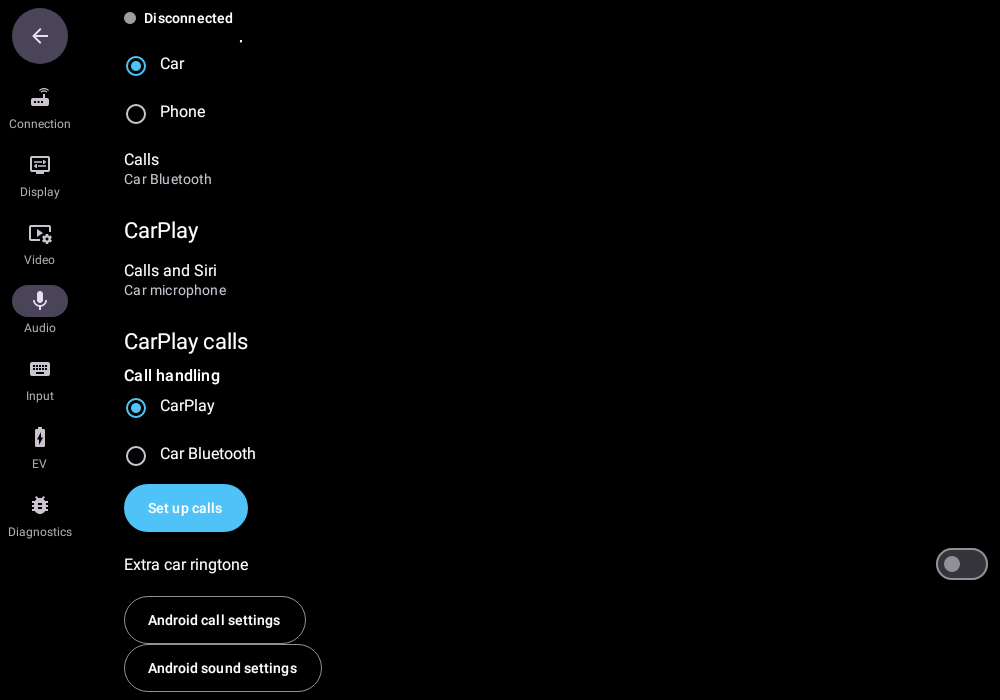
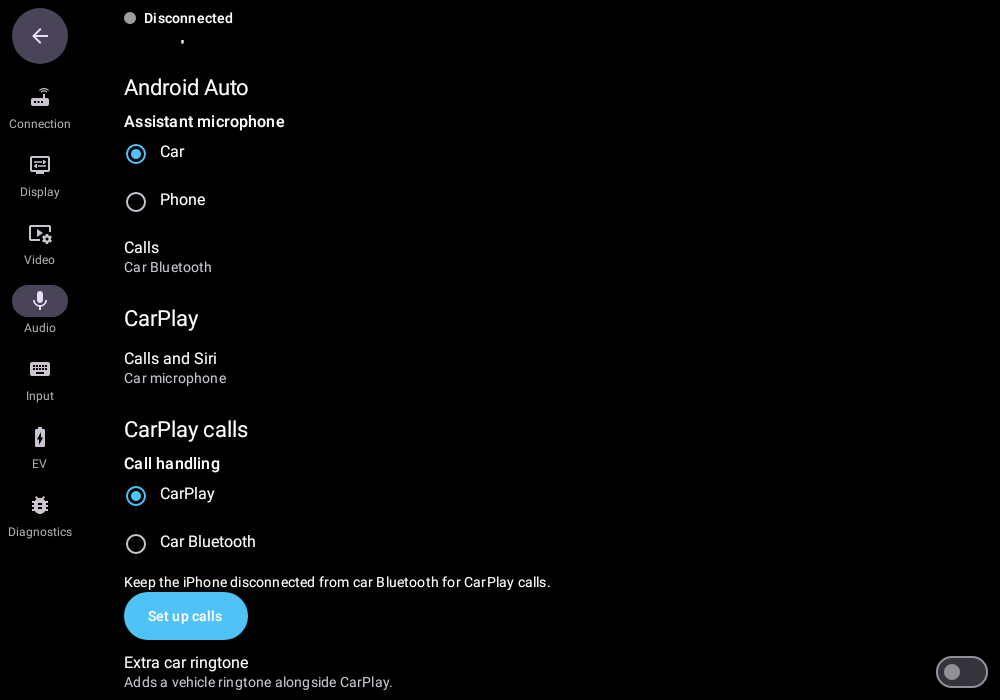
Explain extra car ringtone and refresh actual Audio setup renders

diff --git a/app/src/test/java/com/openautolink/app/ui/settings/CarPlayCallSettingsTest.kt b/app/src/test/java/com/openautolink/app/ui/settings/CarPlayCallSettingsTest.kt
@@ -78,6 +78,25 @@ class CarPlayCallSettingsTest {
         compose.onNodeWithTag("extraCarRingtone").assertDoesNotExist()
     }
 
+    @Test fun extraRingtoneExplainsOptionalVehicleRingOnlyForCarPlay() {
+        var state by mutableStateOf(CarPlayCallUiState(preferencesLoaded = true,
+            setup = CarPlayCallSetup.SETUP_REQUIRED))
+        val events = mutableListOf<String>()
+        compose.setContent { MaterialTheme { Column(Modifier.verticalScroll(rememberScrollState())) {
+            CarPlayCallSettings(bindings(state, events))
+        } } }
+        compose.onNodeWithTag("extraCarRingtoneHelper").performScrollTo()
+            .assertIsDisplayed().assertTextEquals("Adds a vehicle ringtone alongside CarPlay.")
+        compose.onNodeWithTag("extraCarRingtone").assertIsOff()
+        compose.runOnIdle {
+            assertTrue("Reading guidance must not change intent", events.isEmpty())
+            state = state.copy(handler = CarPlayCallHandler.CAR_BLUETOOTH)
+        }
+        compose.onNodeWithTag("extraCarRingtoneHelper").assertDoesNotExist()
+        compose.onNodeWithTag("extraCarRingtone").assertDoesNotExist()
+        compose.onNodeWithTag("carPlayBluetoothPrerequisite").assertDoesNotExist()
+    }
+
     @Test fun missingMicrophoneAndFrozenInputUseOneContextualActionWithoutArming() {
         var invoked = 0
         val bindings = bindings(CarPlayCallUiState(preferencesLoaded = true), mutableListOf()).copy(
@@ -90,7 +109,7 @@ class CarPlayCallSettingsTest {
         compose.onNodeWithTag("carPlayMicrophoneAction").performScrollTo().performClick()
         assertEquals(1, invoked)
         compose.onNodeWithText("Arm").assertDoesNotExist()
-        compose.onNodeWithText("Save & Reconnect").assertDoesNotExist()
+        compose.onNodeWithText("Save changes").assertDoesNotExist()
     }
 
     @Test fun bluetoothPrerequisiteRemainsVisibleWhenSetupOrSaveFails() {
@@ -116,7 +135,7 @@ class CarPlayCallSettingsTest {
         compose.onNodeWithText("Native call integration").assertDoesNotExist()
         compose.onNodeWithText("Native Answer/Reject/End").assertDoesNotExist()
         compose.onNodeWithText("Inspect").assertDoesNotExist()
-        compose.onNodeWithText("Save & Reconnect").assertDoesNotExist()
+        compose.onNodeWithText("Save changes").assertDoesNotExist()
     }
 
     @Test fun landscapeRendersActualSettingsAndSingleSharedNativeAudioAction() {
@@ -129,7 +148,10 @@ class CarPlayCallSettingsTest {
         } }
         compose.onNodeWithTag("settingsTab_AUDIO").performClick()
         screenshot("audio-landscape-top")
-        compose.onNodeWithTag("androidSoundSettings").performScrollTo()
+        compose.onNodeWithTag("extraCarRingtoneHelper").performScrollTo().assertIsDisplayed()
+        compose.onNodeWithTag("carPlayBluetoothPrerequisite").assertIsDisplayed()
+        compose.onNodeWithTag("callSetup").assertIsDisplayed().assertTextEquals("Set up calls")
+        compose.onNodeWithTag("extraCarRingtone").assertIsOff()
         screenshot("audio-landscape-calls")
         compose.onNodeWithTag("openVehicleAudio").performScrollTo().performClick()
         assertEquals(listOf("audio"), events)
@@ -146,12 +168,15 @@ class CarPlayCallSettingsTest {
                 captureView()
                 SettingsScreen(viewModel = vm, onBack = { events += "back" },
                     audioBindings = bindings(CarPlayCallUiState(preferencesLoaded = true,
-                        setup = CarPlayCallSetup.ENABLE_ACCOUNT), events))
+                        setup = CarPlayCallSetup.SETUP_REQUIRED), events))
             }
         } }
         compose.onNodeWithTag("settingsTab_AUDIO").performScrollTo().performClick()
         screenshot("audio-narrow-large-text-top")
-        compose.onNodeWithTag("callSetup").performScrollTo().assertIsDisplayed()
+        compose.onNodeWithTag("extraCarRingtoneHelper").performScrollTo().assertIsDisplayed()
+        compose.onNodeWithTag("carPlayBluetoothPrerequisite").assertIsDisplayed()
+        compose.onNodeWithTag("callSetup").assertIsDisplayed().assertTextEquals("Set up calls")
+        compose.onNodeWithTag("extraCarRingtone").assertIsOff()
         screenshot("audio-narrow-large-text-setup")
         compose.onNodeWithTag("callSetup").assertHeightIsAtLeast(48.dp)
         compose.onNodeWithTag("volumeOffset_Assistant / Speech").performScrollTo()

diff --git a/app/src/main/java/com/openautolink/app/ui/settings/CarPlayCallSettings.kt b/app/src/main/java/com/openautolink/app/ui/settings/CarPlayCallSettings.kt
@@ -72,7 +72,13 @@ internal fun CarPlayCallSettings(bindings: AudioSettingsBindings?) {
             CarPlayCallSetup.UNAVAILABLE -> Text("Call setup unavailable", modifier = Modifier.testTag("callSetupUnavailable"))
         }
         Row(Modifier.fillMaxWidth().padding(vertical = 8.dp), verticalAlignment = androidx.compose.ui.Alignment.CenterVertically) {
-            Text("Extra car ringtone", modifier = Modifier.weight(1f), style = MaterialTheme.typography.bodyLarge)
+            Column(Modifier.weight(1f)) {
+                Text("Extra car ringtone", style = MaterialTheme.typography.bodyLarge)
+                Text("Adds a vehicle ringtone alongside CarPlay.",
+                    style = MaterialTheme.typography.bodyMedium,
+                    color = MaterialTheme.colorScheme.onSurfaceVariant,
+                    modifier = Modifier.testTag("extraCarRingtoneHelper"))
+            }
             Switch(state.extraCarRingtone, onCheckedChange = { bindings?.onExtraCarRingtoneChange?.invoke(it) },
                 enabled = editable, modifier = Modifier.sizeIn(minWidth = 48.dp, minHeight = 48.dp).testTag("extraCarRingtone"))
         }

diff --git a/docs/screenshots/README.md b/docs/screenshots/README.md
@@ -2,13 +2,17 @@
 
 ## Current Audio settings and actual GM approval page
 
-- [Audio settings, landscape](Audio-Settings-Landscape.png): actual Compose UI rendered with Robolectric NativeGraphics, API 34, 1000×700 dp, OAL dark theme. The call setup state is an explicit test fixture, not a live account/vehicle approval claim.
-- [CarPlay call controls](Audio-Settings-CarPlay-Calls.png): same actual landscape render scrolled to handler, setup, extra ringtone Off and optional system shortcuts.
-- [Android Auto volume offsets, narrow / large text](Audio-Settings-Narrow-Volume.png): percentage values remain visible alongside wrapped labels.
-- [Audio settings, narrow / large text](Audio-Settings-Narrow-Large-Text.png): same implemented UI at 320×640 dp with 150% font scale; scroll and Back are exercised by the Compose test.
+- [Audio settings, landscape](Audio-Settings-Landscape.png): actual production Compose UI rendered with Robolectric NativeGraphics, API 34, 1000×700 dp, OAL dark theme, 100% font scale. Shows **Set up calls** and the persistent iPhone/car Bluetooth prerequisite.
+- [CarPlay call controls](Audio-Settings-CarPlay-Calls.png): same landscape screen scrolled to show the Bluetooth prerequisite, **Set up calls**, **Extra car ringtone → Off**, and its visible helper: “Adds a vehicle ringtone alongside CarPlay.”
+- [Android Auto volume offsets, narrow / large text](Audio-Settings-Narrow-Volume.png): 320×640 dp, 150% font scale; percentage values remain visible alongside wrapped labels.
+- [Audio settings, narrow / large text](Audio-Settings-Narrow-Large-Text.png): same implemented UI at 320×640 dp with 150% font scale, scrolled to show the complete Bluetooth prerequisite, **Set up calls**, and ringtone helper. Content above this scroll position is cropped normally; the Compose test exercises scroll and Back.
 - [GM Calling accounts](GM-Calling-Accounts-Redacted.jpg): actual owner photograph, cropped to remove system-status details and black-redacted over the private Bluetooth address. The historical account label is not retouched: production uses **OpenAutoLink**. Independent switches show Android account approval, not audio ownership.
 
-Generated app renders are not GM vehicle screenshots. No before-548 screenshot is available. The real GM image is not an emulator/mock. No raw private photograph or identifiers are published. See [calls and microphones](../phone-calls.md).
+All four Audio renders use explicit **SETUP_REQUIRED** fixtures, **CarPlay** handling and **Extra car ringtone Off**; none depicts live account/vehicle approval or a Ready account. The Bluetooth prerequisite is inline guidance, not an error-only message. The ringtone option allows the normal Android/vehicle ringtone alongside CarPlay; actual ringing still depends on Android approval, admitted call ownership and vehicle behavior, not an unconditional promise of two rings. No preference defaults or runtime policy changed for these renders.
+
+[Render provenance and SHA-256 hashes](Audio-Settings-Provenance.json) record the exact fixture, source mapping, focused API 32/34 test receipt and regeneration command. The existing `CarPlayCallSettingsTest` harness mounts production `SettingsScreen`, captures its actual Android root View with NativeGraphics, and asserts prerequisite/helper visibility after scrolling; it does not draw a substitute UI.
+
+Generated app renders are not GM vehicle screenshots. No before-548 screenshot is available. The real GM image is unchanged by this refresh, not an emulator/mock. No raw private photograph or identifiers are published. See [calls and microphones](../phone-calls.md).
 
 ## Historical screenshot archive
 
